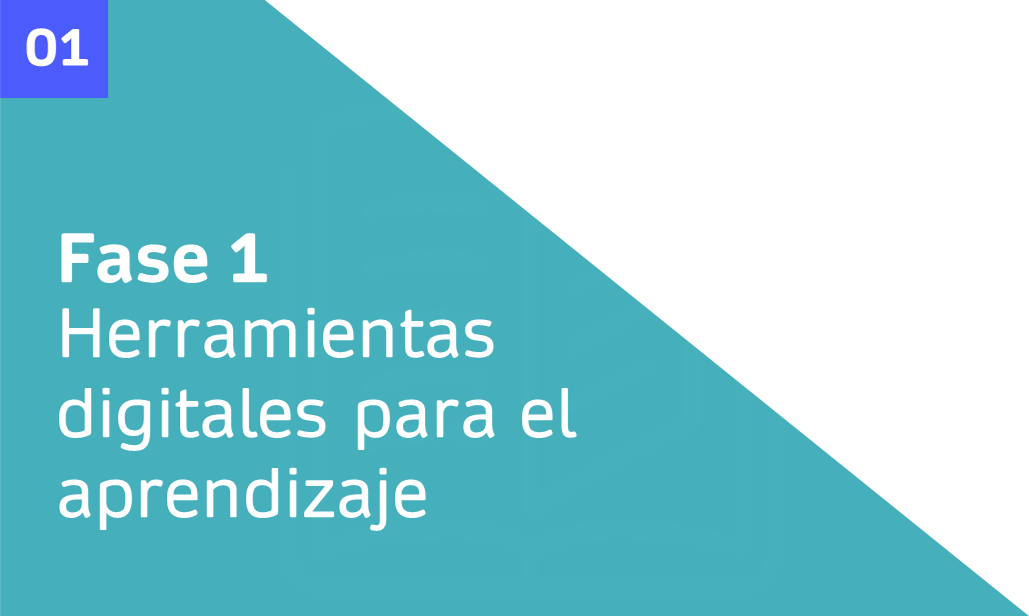
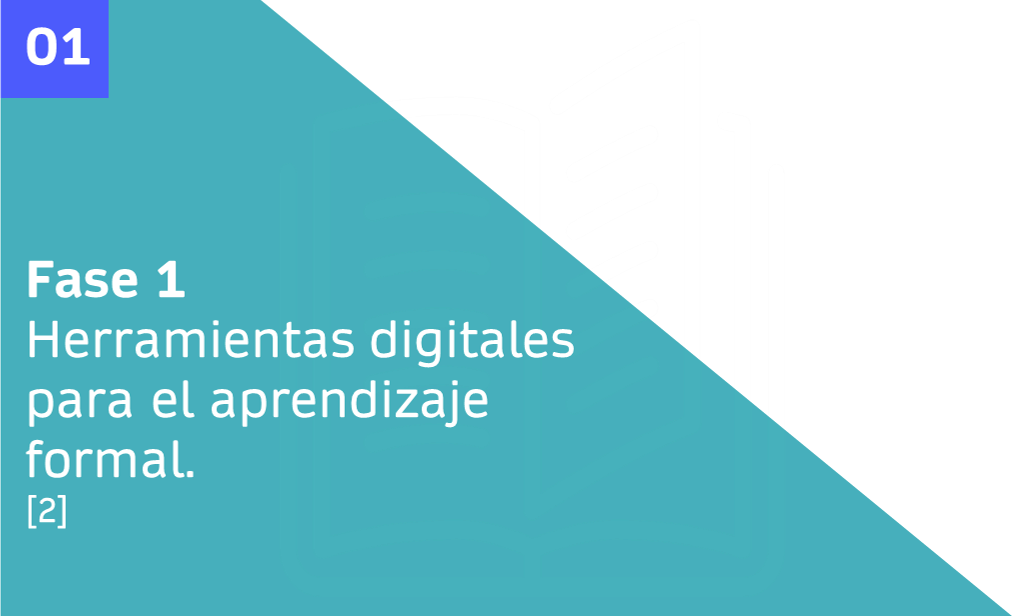
HDEA correcciones

Changed region(s): [[0.0, 0.3701, 0.582, 0.8636], [0.0, 0.0308, 0.0919, 0.1234]]

diff --git a/HDEA/fase1.html b/HDEA/fase1.html
@@ -37,7 +37,7 @@
 				<span class="sm-view h2 font-weight-bold"></span>
 
                 <p class=" lg-view p-0 m-0 font-weight-bold">
-                  Fase 1: Herramientas digitales para el aprendizaje formal
+                  Fase 1. Herramientas digitales para el aprendizaje formal
 
                 </p>
 				<p class=" sm-view p-0 m-0 font-weight-bold modulolargo">
@@ -213,7 +213,7 @@
 			<div class="col" style="background-color:#355ca7;">
 				<h3 class="font-weight-bold"><i class="fas fa-info-circle"></i> Introducción</h3>
 				<div id="textoIntroduccion">
-					<p>Con el avance de la ciencia y la tecnología, la práctica de la enseñanza también debería avanzar. Las necesidades de los estudiantes universitarios en el siglo XXI demandan diferentes estrategias de aprendizaje basadas en sus hábitos diarios, como el uso de herramientas digitales y aplicaciones. Ante esta situación, es importante comenzar a adoptar diferentes estrategias en el aula para apoyar el uso de tales instrumentos para desarrollar habilidades analíticas y de razonamiento.</p>
+					<p>Con el avance de la ciencia y la tecnología, la práctica de la enseñanza también debería avanzar. Las necesidades de los estudiantes universitarios en el siglo XXI demandan diferentes estrategias de aprendizaje basadas en sus hábitos diarios, como el uso de herramientas digitales y aplicaciones. Ante esta situación, es importante comenzar a adoptar diferentes estrategias en el aula, apoyando el uso de tales instrumentos para desarrollar habilidades analíticas y de razonamiento.</p>
 					<p>En este sentido, revisaremos las herramientas digitales que favorecen la enseñanza y el aprendizaje, ya que como docentes necesitamos utilizarlas eficientemente en los procesos formativos y de capacitación. Además de conocer cuáles son, sus usos, y las utilidades que ofrecen, lo cual permitirá incluir las más adecuadas en nuestro quehacer académico.</p>
 				</div>
 			</div>
@@ -250,17 +250,22 @@
 	  <a class="next" onclick="plusSlides(1, 0)">&#10095;</a>
 	</div>
 	<br>
+	<div class="container contenedor-seccion">
+
+			<h3 class="titulo">1.1 Tipos de plataformas digitales de aprendizaje<h3>
+
+	</div>
 	<div class="tab">
 		<div class="row">
 			<div class="col"></div>
-			<div class="col-3"><button class="tablinks tabTema" onclick="abrirPestana(event, 'plataforma', 'tabTema1')" id="defaultOpen">1.1 Tipos de plataformas digitales de aprendizaje</button></div>
+			<div class="col-3"><button class="tablinks tabTema" onclick="abrirPestana(event, 'plataforma', 'tabTema1')" id="defaultOpen">¿Qué son las plataformas de aprendizaje digital?</button></div>
 			<div class="col"></div>
 			<div class="col-3"><button class="tablinks tabTema" onclick="abrirPestana(event, 'uso', 'tabTema1')">¿Cómo saber qué plataforma le conviene usar?</button></div>
 			<div class="col"></div>
 		</div>
 	</div>
 	<div id="plataforma" class="tabcontent tabTema1">
-		<p>Una plataforma de aprendizaje digital es un programa inform&aacute;tico o <em>software</em> dise&ntilde;ado espec&iacute;ficamente para ayudar en la creaci&oacute;n, gesti&oacute;n y distribuci&oacute;n de actividades docentes. Est&aacute;n estrechamente relacionadas con el desarrollo del <em>e-</em><em>learning</em>, que es una modalidad de ense&ntilde;anza combinada con herramientas digitales, y la educaci&oacute;n a distancia, que es una de sus principales &aacute;reas de aplicaci&oacute;n.</p>
+		<p>Las plataformas de aprendizaje digital son programas informáticos o software diseñados específicamente para ayudar en la creación, gestión y distribución de actividades docentes. Están estrechamente relacionadas con el desarrollo del e-learning, que es una modalidad de enseñanza combinada con herramientas digitales, y la educación a distancia, que es una de sus principales áreas de aplicación.</p>
 	</div>
 	<div id="uso" class="tabcontent tabTema1">
 		<p>Si está pensando en utilizar alguna plataforma digital para trabajar su experiencia educativa o capacitación, éstos son algunos puntos que debe considerar al elegirla: </p>
@@ -282,11 +287,13 @@
 					class="img-fluid"
 				  />
 				  <figcaption class="figure-caption text-right text-black">
-					<span class="font-weight-bold">Elaboración propia</span>
+					<span class="font-weight-bold">Fuente: Elaboración propia.</span>
 				  </figcaption>
 				</figure>
 			  </div>
 		</div>
+		<br>
+		<h3 class="titulo">Tema 1.2: Plataformas para la enseñanza y para el aprendizaje</h3>
 		<div class="row" >
 			  <div class="col fondo_azul" style="text-align: center;">
 					<figure class="figure">
@@ -315,15 +322,15 @@
 					</figure>
 			  </div>
 		</div>
+		
 		<div class="row" style="color: black;">
 			  <div class="col fondo_azul text-white">
-					<h3 class="font-weight-bold">Tema 1.2: Plataformas para la enseñanza y para el aprendizaje</h3>
 					<p>Las plataformas digitales se han convertido en un medio de comunicación importante en la actualidad, ya que nos posibilita estar presentes a pesar de la distancia.</p>
 					<p>En el ámbito educativo, se han convertido en un recurso indispensable para la continuidad y seguimiento del proceso de enseñanza-aprendizaje, pues son ahora una herramienta de trabajo para los docentes en sus diferentes niveles para acompañar a los alumnos. </p>
 					<p>El uso de plataformas virtuales ofrece una serie de ventajas en la enseñanza, entre ellas el acceso a la información, mantiene canales de comunicación permanentemente abiertos de manera asincrónica y, en otras, sincrónica. Además, permiten administrar y gestionar contenidos, ofrecen llevar un seguimiento puntual del alumno, así como la oportunidad de consultar el material relacionado con el curso en cualquier momento y en cualquier lugar. </p>
-					<p>La finalidad del uso de estas herramientas es la de mejorar el proceso de enseñanza-aprendizaje, sin embargo, a la par de las ventajas que éstas presentan, también existen algunas desventajas que pueden presentar retos en el proceso educativo.</p>
+					<p>La finalidad del uso de estas herramientas es la de mejorar el proceso de enseñanza-aprendizaje, sin embargo, a la par de las ventajas que éstas ofrecen, también existen algunas desventajas que pueden presentar retos en el proceso educativo.</p>
 			  </div>
-			  <div class="col fondo_verde text-white">
+			  <div class="col  fondo_verde text-white">
 					<p>Llevar un curso bajo esta modalidad requiere de mayor esfuerzo y tiempo de dedicación por parte del facilitador, así como de contar con la motivación de los alumnos y su participación, para que se involucren en el proceso y la experiencia educativa. </p>
 					<p>Es importante recordar que para el uso de las plataformas virtuales como un recurso de apoyo, se requiere que el alumno y el facilitador dispongan de acceso permanente a los medios informáticos, pues es un aspecto absolutamente esencial. </p>
 					<p>En la Universidad Veracruzana contamos con una plataforma institucional: Eminus, que es una herramienta de apoyo que pretende flexibilizar el proceso de enseñanza-aprendizaje, favorece la importación y reutilización de recursos educativos, además de ofrecer actividades individuales y grupales para el logro de competencias académicas, permitiendo un seguimiento detallado acerca de la actividad escolar de los alumnos. </p>
@@ -371,27 +378,20 @@
 			</div>
 		</div>
 
-		<div id="basicas" class="tabcontent tabFuentes">
-			<p class="fuente">CENGAGE. (2021, 30 abril). <i>27 Plataformas virtuales educativas gratuitas</i>. <a href="https://latam.cengage.com/27-plataformas-virtuales-educativas-gratuitas/" target="_blank" rel="noopener">https://latam.cengage.com/27-plataformas-virtuales-educativas-gratuitas/</a></p>
-
-			<p class="fuente">Brown, A., &amp; Green, T. D. (2016). <i>The essentials of instructional design: Connecting fundamental principles with process and practice.</i> Third Edition. <a href="https://ikhsanaira.files.wordpress.com/2016/05/the-essential-of-instructional-design.pdf" target="_blank" rel="noopener">https://ikhsanaira.files.wordpress.com/2016/05/the-essential-of-instructional-design.pdf</a></p>
-
-			<p class="fuente">Chauhan, A. (2021, 12 mayo). <i>11 Digital </i><i>Education</i><i> Tools </i><i>For</i> <i>Teachers</i><i> And </i><i>Students</i><i>. </i>ELearning Industry. <a href="https://elearningindustry.com/digital-education-tools-teachers-students" target="_blank" rel="noopener">https://elearningindustry.com/digital-education-tools-teachers-students</a>.</p>
-
-			<p class="fuente">Contreras, W. (2017). Evolución de las aulas virtuales en las universidades tradicionales chilenas: el caso de la Universidad del Bío-Bío. <i>Horizontes Educacionales</i>, 12(1), 49-58. <a href="https://www.redalyc.org/articulo.oa?id=97916199006" target="_blank" rel="noopener">https://www.redalyc.org/articulo.oa?id=97916199006</a>.</p>
-
-			<p class="fuente">Fernández-Pampillón, A. M. (2009). Las plataformas e-learning para la enseñanza y el aprendizaje universitario en Internet. En <i>Las plataformas de aprendizaje. Del mito a la realidad</i> (pp. 45-73). Biblioteca Nueva. <a href="https://eprints.ucm.es/id/eprint/10682/" target="_blank" rel="noopener">https://eprints.ucm.es/id/eprint/10682</a><a href="https://eprints.ucm.es/id/eprint/10682/">/</a></p>
-
-			<p class="fuente">Segureskola. (2021, 25 junio). <i>Las 5 mejores plataformas educativas digitales para usar en clase</i>. Blog Educación y Bienestar digital. <a href="https://gaptain.com/blog/las-5-mejores-plataformas-educativas-para-usar-en-clase" target="_blank" rel="noopener">https://</a><a href="https://gaptain.com/blog/las-5-mejores-plataformas-educativas-para-usar-en-clase">gaptain.com/blog/las-5-mejores-plataformas-educativas-para-usar-en-clase</a></p>
-
-			<p class="fuente">Galvis, Á. H. &amp; Pedraza, L. d. C. (2016). <i>Desafíos del elearning y del blearning en educación </i><i>superior. An</i><i>álisis</i><i> de buenas prácticas en instituciones líderes. </i>Universidad de los Andes/Conecta-te. Centro de Innovación en Tecnología y Educación. <a href="https://conectate.uniandes.edu.co/images/pdf/desafios_conectate.pdf" target="_blank" rel="noopener">https://conectate.uniandes.edu.co/images/pdf/desafios_conectate.pdf</a>.</p>
-
-			<p class="fuente">Riestra, E. (s. f.). <i>Las plataformas </i>e-learning para la enseñanza y el aprendizaje. Yeira E-learning. Recuperado 13 de julio de 2021 de: <a href="https://www.yeira.training/blog/plataformas-digitales-de-aprendizaje" target="_blank" rel="noopener">https://www.yeira.training/blog/plataformas-digitales-de-aprendizaje</a></p>
+		<div id="basicas" class="tabcontent tabFuentes" style="text-align: left;">
+			<p class="fuente">Brown, A., &amp; Green, T. D. (2016). <em>The essentials of instructional design: Connecting fundamental principles with process and practice.</em> Third Edition. <a href="https://ikhsanaira.files.wordpress.com/2016/05/the-essential-of-instructional-design.pdf" target="_blank">https://ikhsanaira.files.wordpress.com/2016/05/the-essential-of-instructional-design.pdf</a></p>
+			<p class="fuente">CENGAGE. (2021, 30 abril). <em>27 Plataformas virtuales educativas gratuitas</em>. https://latam.cengage.com/27-plataformas-virtuales-educativas-gratuitas/</p>
+			<p class="fuente">Chauhan, A. (2021, 12 mayo). <em>11 Digital </em><em>Education</em><em> Tools </em><em>For</em> <em>Teachers</em><em> And </em><em>Students</em><em>. </em>ELearning Industry. <a href="https://elearningindustry.com/digital-education-tools-teachers-students" target="_blank">https://elearningindustry.com/digital-education-tools-teachers-students</a>.</p>
+			<p class="fuente">Contreras, W. (2017). Evoluci&oacute;n de las aulas virtuales en las universidades tradicionales chilenas: el caso de la Universidad del B&iacute;o-B&iacute;o. <em>Horizontes Educacionales</em>, 12(1), 49-58. <a href="https://www.redalyc.org/articulo.oa?id=97916199006" target="_blank">https://www.redalyc.org/articulo.oa?id=97916199006</a>.</p>
+			<p class="fuente">Fern&aacute;ndez-Pampill&oacute;n, A. M. (2009). Las plataformas e-learning para la ense&ntilde;anza y el aprendizaje universitario en Internet. En <em>Las plataformas de aprendizaje. Del mito a la realidad</em> (pp. 45-73). Biblioteca Nueva. <a href="https://eprints.ucm.es/id/eprint/10682/" target="_blank">https://eprints.ucm.es/id/eprint/10682/</a></p>
+			<p class="fuente">Galvis, &Aacute;. H. &amp; Pedraza, L. d. C. (2016). <em>Desaf&iacute;os del elearning y del blearning en educaci&oacute;n superior. An</em><em>&aacute;lisis</em><em> de buenas pr&aacute;cticas en instituciones l&iacute;deres. </em>Universidad de los Andes/Conecta-te. Centro de Innovaci&oacute;n en Tecnolog&iacute;a y Educaci&oacute;n. <a href="https://conectate.uniandes.edu.co/images/pdf/desafios_conectate.pdf" target="_blank">https://conectate.uniandes.edu.co/images/pdf/desafios_conectate.pdf</a>.</p>
+			<p class="fuente">Riestra, E. (s. f.). <em>Las plataformas </em>e-learning para la ense&ntilde;anza y el aprendizaje. Yeira E-learning. Recuperado 13 de julio de 2021 de: <a href="https://www.yeira.training/blog/plataformas-digitales-de-aprendizaje" target="_blank">https://www.yeira.training/blog/plataformas-digitales-de-aprendizaje</a></p>
+			<p class="fuente">Segureskola. (2021, 25 junio). <em>Las 5 mejores plataformas educativas digitales para usar en clase</em>. Blog Educaci&oacute;n y Bienestar digital. <a href="https://gaptain.com/blog/las-5-mejores-plataformas-educativas-para-usar-en-clase" target="_blank">https://gaptain.com/blog/las-5-mejores-plataformas-educativas-para-usar-en-clase</a></p>
 		</div>
 
 		<div id="complementarias" class="tabcontent tabFuentes">
 			<p class="fuente">GoConqr en Español. (2015, mayo 6). <i>Cómo Crear Mapas Mentales con </i><i>GoConqr</i> [Video]. YouTube. <a href="https://www.youtube.com/watch?v=-fHmt6Bcel0" target="_blank" rel="noopener">https://</a><a href="https://www.youtube.com/watch?v=-fHmt6Bcel0">www.youtube.com</a><a href="https://www.youtube.com/watch?v=-fHmt6Bcel0">/</a><a href="https://www.youtube.com/watch?v=-fHmt6Bcel0">watch?v</a><a href="https://www.youtube.com/watch?v=-fHmt6Bcel0">=-fHmt6Bcel0</a></p>
-			<p class="fuente">GoConqr - Transforma la forma en la que aprendes. (s. f.). GoConqr. Recuperado 2 de julio de 2021, de <u><a href="https://www.goconqr.com/es-ES" target="_blank" rel="noopener">https://</a></u><u><a href="https://www.goconqr.com/es-ES">www.goconqr.com/es-ES</a></u></p>
+			<p class="fuente">GoConqr - Transforma la forma en la que aprendes. (s. f.). GoConqr. Recuperado 2 de julio de 2021, de <a href="https://www.goconqr.com/es-ES" target="_blank" rel="noopener">https://</a><a href="https://www.goconqr.com/es-ES">www.goconqr.com/es-ES</a></u></p>
 		</div>
 		
 		
@@ -428,16 +428,17 @@
                   aria-labelledby="headingOne"
                   data-parent="#accordionExample"
                 >
-                  <div class="card-body" style="background-color: white;">
-                        <p class="text-black" style="font-size: small; margin-left:15.65pt;text-indent:-15.65pt; margin:0.3em;"
-                          ><sup style="font-size:60%;">1</sup> ijeab (2017). Usiness people meeting to discuss the situation on the marketing. Free Photo. [Imagen]. Freepik. https://www.freepik.com/free-photo/usiness-people-meeting-discuss-situation-marketing_1236194.htm</p>
-						<p class="text-black" style="font-size: small; margin-left:15.65pt;text-indent:-15.65pt; margin:0.3em;"
-                          ><sup style="font-size:60%;">2</sup> rawpixel.com (2019). Business people using internet Free Photo. [Imagen]. Freepik. https://www.freepik.com/free-photo/business-people-using-internet_4246721.htm</p>
-						  <p class="text-black" style="font-size: small; margin-left:15.65pt;text-indent:-15.65pt; margin:0.3em;"
-                          ><sup style="font-size:60%;">3</sup> Freepik (2021). Teacher doing her english lessons online Free Photo. [Imagen]. Freepik. https://www.freepik.com/free-photo/teacher-doing-her-english-lessons-online_15184791.htm</p>
-						  <p class="text-black" style="font-size: small; margin-left:15.65pt;text-indent:-15.65pt; margin:0.3em;"
-                          ><sup style="font-size:60%;">4</sup> PNGWING (2021). free-png-vptse. [Imagen]. PNGWING. https://www.pngwing.com/es/free-png-vptse</p>
-                  </div>
+                  <div class="card-body" style="background-color: white; text-align: left;">
+						<p class="disclaimer"><sup style="font-size:60%;">1</sup> Ijeab (2017). <em>Usiness people meeting to discuss the situation on the marketing. Free Photo. </em>[Imagen]. <em>Freepik</em>. <a href="https://www.freepik.com/free-photo/usiness-people-meeting-discuss-situation-marketing_1236194.htm" target="_blank">https://www.freepik.com/free-photo/usiness-people-meeting-discuss-situation-marketing_1236194.htm</a></p>
+						<p class="disclaimer"><sup style="font-size:60%;">2</sup> Rawpixel.com (2019). <em>Business people using </em><em>internet. </em><em>Free Photo. </em>[Imagen]. <em>Freepik</em>. <a href="https://www.freepik.com/free-photo/business-people-using-internet_4246721.htm" target="_blank">https://www.freepik.com/free-photo/business-people-using-internet_4246721.htm</a></p>
+						<p class="disclaimer"><sup style="font-size:60%;">3</sup> Freepik (2021). <em>Teacher</em> <em>doing</em> <em>her</em> <em>english</em> <em>lessons</em><em> online Free </em><em>Photo</em>. [Imagen]. <em>Freepik</em>. <a href="https://www.freepik.com/free-photo/teacher-doing-her-english-lessons-online_15184791.htm" target="_blank">https://www.freepik.com/free-photo/teacher-doing-her-english-lessons-online_15184791.htm</a></p>
+						<p class="disclaimer"><sup style="font-size:60%;">4</sup> PNGWING (2021). <em>Free-</em><em>png</em><em>-</em><em>vptse</em>. [Imagen]. PNGWING. <a href="https://www.pngwing.com/es/free-png-vptse" target="_blank">https://www.pngwing.com/es/free-png-vptse</a></p>
+				  
+				  
+				  
+				  
+				  
+				  </div>
                 </div>
               </div>
             </div>
@@ -494,7 +495,7 @@
             </button>
           </div>
           <div class="modal-body actividad-modal">
-            <p><u>Descripci&oacute;n:</u></p>
+            <pDescripci&oacute;n:</p>
 			<ol>
 			<li>Despu&eacute;s de revisar la informaci&oacute;n de esta fase y explorar de manera general los tipos de plataformas digitales para la ense&ntilde;anza y el aprendizaje, elabore un mapa mental que incluya las principales caracter&iacute;sticas de &eacute;stas, as&iacute; como las diferencias en cada una de ellas. Para lo anterior, considere utilizar algunas de las siguientes herramientas:
 				<ol type="a">
@@ -502,29 +503,29 @@
 					<li>Realice la lectura del <em>Tutorial </em><em>Mindmeister</em>, localizado en el siguiente enlace: <a href="https://www.mindmeister.com/generic_files/get_file/755480?filetype=attachment_file">https://www.mindmeister.com/generic_files/get_file/755480?filetype=attachment_file</a>. Revise cu&aacute;les son los pasos a seguir para crear un mapa mental y la forma de registrarse.</li>
 					<li>Para elaborar su mapa mental, tambi&eacute;n puede usar las siguientes herramientas:
 						<ul>
-							<li>Draw.io (s. f.). <em>Diagrams.net-free </em><em>flowchart</em> <em>maker</em><em> and </em><em>diagrams</em><em> online. </em>Recuperado 13 de julio de 2021 de: <a href="https://app.diagrams.net/">https://app.diagrams.net/</a>, es una herramienta gratuita y sirve para realizar varios tipos de diagramas.</li>
-							<li>XMind Ltd. (s. f.). XMind - Full-featured mind mapping and brainstorming tool. XMind. Recuperado 13 de julio de 2021 de: <a href="https://www.xmind.net/">https://www.xmind.net/</a>. Es una herramienta que posee una versi&oacute;n gratuita y otra de pago, la versi&oacute;n gratuita no permite el uso de im&aacute;genes.</li>
-							<li>Coggle. (s. f.). Coggle-Simple Collaborative Mind Maps. Coggle.it. Recuperado 13 de julio de 2021 de: <a href="https://coggle.it/">https://coggle.it/</a>. Permite el uso de im&aacute;genes y posee la opci&oacute;n de trabajo colaborativo.</li>
+							<li>Draw.io (s. f.). <em>Diagrams.net-free </em><em>flowchart</em> <em>maker</em><em> and </em><em>diagrams</em><em> online. </em>Recuperado el 13 de julio de 2021 de: <a href="https://app.diagrams.net/" target="_blank">https://app.diagrams.net/</a>, es una herramienta gratuita y sirve para realizar varios tipos de diagramas.</li>
+							<li>XMind Ltd. (s. f.). <em>Xmind-Full-featured </em><em>mind mapping and brainstorming tool. </em><em>XMind</em><em>. </em>Recuperado el 13 de julio de 2021 de:<a title=" https://www.xmind.net/" href="%20https://www.xmind.net/" target="_blank"> https://www.xmind.net/</a>. Es una herramienta que posee una versi&oacute;n gratuita y otra de pago, la versi&oacute;n gratuita no permite el uso de im&aacute;genes.</li>
+							<li>Coggle. (s. f.). <em>Coggle</em><em>-Simple </em><em>Collaborative</em><em>Mind</em><em>Maps</em><em>. Coggle.it. </em>Recuperado el 13 de julio de 2021 de: <a href="https://coggle.it/" target="_blank">https://coggle.it/</a>. Permite el uso de im&aacute;genes y posee la opci&oacute;n de trabajo colaborativo.</li>
 						</ul>
 					</li>
 				</ol>
 			</li>
 			</ol>
 			<ol start="2">
-			<li>La citaci&oacute;n y la escritura de referencias deber&aacute; ser con base en el&nbsp;<em>Manual de Publicaciones de la </em><em>APA,7a. </em><em>ed.,</em> para ello consulte la siguiente p&aacute;gina: S&aacute;nchez, C. (2020, 24 noviembre).&nbsp;Normas APA. 7a. edici&oacute;n. Normas-apa.org. Blog.&nbsp;<a href="https://normas-apa.org/">https://normas-apa.org/</a>. Tambi&eacute;n puede descargar el manual en formato PDF directamente desde:&nbsp;<a href="https://normas-apa.org/wp-content/uploads/Guia-Normas-APA-7ma-edicion.pdf">https://normas-apa.org/wp-content/uploads/Guia-Normas-APA-7ma-edicion.pdf</a>o bien, consultar el video acerca del uso del modo de gestor de referencias bibliogr&aacute;ficas en: Juan Pablo Garc&iacute;a Cuevas. (2020, 16 diciembre).&nbsp;Uso de Scribbr&nbsp;[Video]. YouTube, en:&nbsp;<a href="https://youtu.be/p8Dq48YsZvY">https://youtu.be/p8Dq48YsZvY</a></li>
+			<li>La citaci&oacute;n y la escritura de referencias deber&aacute; ser con base en el&nbsp;<em>Manual de Publicaciones de la APA,7a. ed.,</em> para ello consulte la siguiente p&aacute;gina: S&aacute;nchez, C. (2020, 24 noviembre).&nbsp;Normas APA. 7a. edici&oacute;n. Normas-apa.org. Blog.&nbsp;<a href="https://normas-apa.org/" target="_blank">https://normas-apa.org/</a>. Tambi&eacute;n puede descargar el manual en formato PDF directamente desde:&nbsp;<a href="https://normas-apa.org/wp-content/uploads/Guia-Normas-APA-7ma-edicion.pdf" target="_blank">https://normas-apa.org/wp-content/uploads/Guia-Normas-APA-7ma-edicion.pdf</a>&nbsp;o bien, consultar el video acerca del uso del modo de gestor de referencias bibliogr&aacute;ficas en: Juan Pablo Garc&iacute;a Cuevas. (2020, 16 diciembre).&nbsp;Uso de Scribbr&nbsp;[Video]. YouTube, en:&nbsp;<a href="https://youtu.be/p8Dq48YsZvY">https://youtu.be/p8Dq48YsZvY</a></li>
 			</ol>
 			<p><strong>Criterios de desempe&ntilde;o:</strong></p>
-			<ul>
+			<ol>
 			<li>Congruencia entre el contenido y las im&aacute;genes usadas.</li>
 			<li>Identificaci&oacute;n de elementos clave.</li>
 			<li>Organizaci&oacute;n de ideas.</li>
 			<li>Redacci&oacute;n y ortograf&iacute;a adecuadas.</li>
-			</ul>
+			</ol>
 			<p><strong>Lineamientos de entrega:</strong></p>
-			<ul>
+			<ol>
 			<li>Titule el archivo de la siguiente forma: <em>ActIn1_PrimerApellidoyPrimerNombre</em>.&nbsp;Ejemplo: <em>Act1_VillanuevaMariaTeresa.</em></li>
 			<li>Env&iacute;e su archivo, en formato PNG, a trav&eacute;s del apartado <strong><em>Actividad 1</em></strong> de la plataforma EMINUS 4, a m&aacute;s tardar en la fecha establecida en el <strong>Calendario</strong> de entregas.</li>
-			</ul>
+			</ol>
           </div>
           <div class="modal-footer">
             <button

diff --git a/HDEA/css/estilosFase.css b/HDEA/css/estilosFase.css
@@ -256,6 +256,8 @@ img {vertical-align: middle;}
 .fuente{
 	margin-left:15.65pt;
 	text-indent:-15.65pt;
+	text-align: left;
+	
 }
 .fondo_verde{
 	background-color: #6cbdb4;
@@ -269,6 +271,7 @@ img {vertical-align: middle;}
 	text-indent:-15.65pt;
 	margin:0.3em;
 	color: black;
+	text-align: left;
 }
 
 p, li{
@@ -277,6 +280,7 @@ p, li{
 
 .titulo{
 	color: #355CA7;
+	font-weight: bold;
 }
 .tabcontent{
 	color: white;
@@ -758,13 +762,13 @@ p, li{
 		width: 40%;
 	}
 	#compensacionProposito1{
-		height: 100px;
+		height: 30px;
 	}
 	#compensacionProposito2{
 		height: 90px;
 	}
 	#compensacionProposito3{
-		height: 70px;
+		height: 30px;
 	}
 	.tab {
 	  overflow: hidden;
